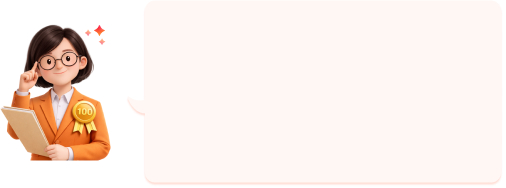
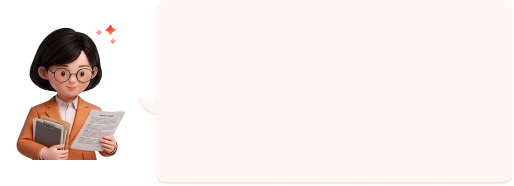
AI 추천이유 팝업 수정

Changed region(s): [[0.0, 0.1075, 0.2964, 0.8602], [0.2964, 0.9677, 1.0, 0.9946]]

diff --git a/src/features/pub/shared/components/popups/Ltpz0050401.tsx b/src/features/pub/shared/components/popups/Ltpz0050401.tsx
@@ -23,22 +23,27 @@ const Ltpz0050401 = ({ open, onOpenChange }: { open: boolean; onOpenChange: (ope
   return (
     <Dialog open={open} onOpenChange={onOpenChange}>
       <DialogTrigger asChild className="hidden"></DialogTrigger>
-      <DialogContent showCloseButton resizable={false} size="md">
+      <DialogContent showCloseButton resizable={false} size="md" className="w-[56rem]! h-[35rem]!">
         <DialogHeader>
-          <DialogTitle>제목</DialogTitle>
+          <DialogTitle>AI 추천이유</DialogTitle>
         </DialogHeader>
 
         <DialogSection className="p-0 flex items-center justify-center">
           <div
             className="relative bg-center bg-no-repeat"
             style={{
-              width: '50rem',
+              width: '51.4rem',
               height: '19rem',
               backgroundImage: `url(${withPublicUrl('/images/Ltpa005/ai_box_img.jpg')})`,
-              backgroundSize: '50.6rem 18.8rem',
+              backgroundSize: '51.4rem 18.8rem',
             }}
           >
-            <Typo tag={'p'} variant={'body-lg'} className="absolute right-[1rem] top-[1rem]" style={{ width: '33rem' }}>
+            <Typo
+              tag={'p'}
+              variant={'body-lg'}
+              className="absolute right-[1.5rem] top-[1.8rem]"
+              style={{ width: '33rem' }}
+            >
               고객님의 보장 내용을 분석해보니 암, 뇌질환, 수술, 치료비 담보가 동일 연령대 대비 다소 부족한 것으로
               확인됩니다.
               <br />
